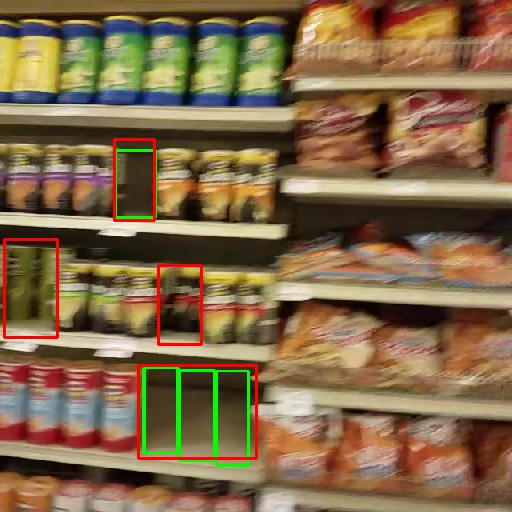
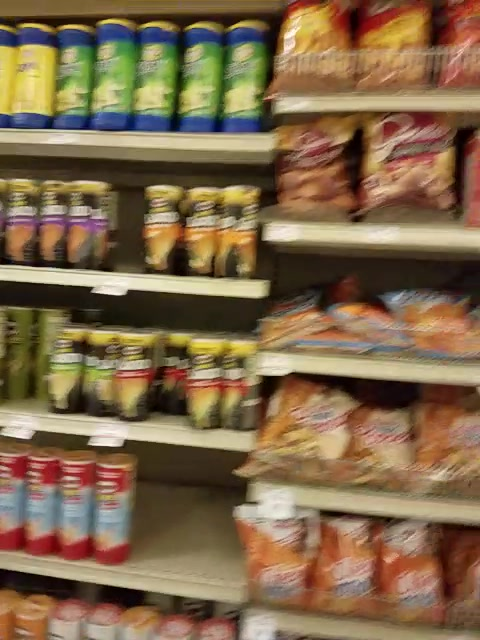
Add more stats to database; draw box evolution

diff --git a/train.py b/train.py
@@ -3,13 +3,18 @@ import argparse
 import os
 import os.path as osp
 import random
+import sqlite3
+from time import time
 
-import torch
-import torch.optim as optim
-import torch.backends.cudnn as cudnn
-import torchvision.transforms as transforms
+from PIL import Image
 from torch.autograd import Variable
 from tqdm import tqdm, trange
+import pandas as pd
+import torch
+import torch.backends.cudnn as cudnn
+import torch.nn.functional as F
+import torch.optim as optim
+import torchvision.transforms as transforms
 
 from torchcv.models.ssd import SSDBoxCoder
 from torchcv.datasets import ListDataset
@@ -19,7 +24,7 @@ from torchcv.transforms import (resize, random_flip, random_paste, random_crop,
 from torchcv.models.void_models import FPNSSD512_2
 from torchcv.loss.void_losses import SSDLoss
 from utils import (set_seed, get_log_prefix, videoid2videoname, git_hash,
-                   get_datetime)
+                   get_datetime, get_gpu_names)
 from utils.sql import get_trial_id, save_stats, connect_and_execute
 from evaluate import evaluate
 
@@ -45,22 +50,29 @@ IMG_SIZE = 512
 DEBUG = False  # Turn off shuffling and multiprocessing
 NUM_WORKERS = 8 if not DEBUG else 0
 SEED = 123
+TRACK_BOX_EVOLUTION = True
 
 IMAGE_DIR = "../../data/voids"
 LABEL_DIR = "../void-detector/labels"
 CKPT_DIR = "checkpoints"
+ARCH = FPNSSD512_2
+ARCH_KWARGS = {'weights_path': 'checkpoints/fpnssd512_20_trained.pth'}
 
 print("Run name:", RUN_NAME)
 set_seed(SEED)
 img_dir = osp.join(IMAGE_DIR, TRN_VIDEO_ID)
 voids = "_voids" if not args.include_voidless else ''
-list_file = osp.join(LABEL_DIR, TRN_VIDEO_ID + voids + '.txt')
-print("Training set:", list_file)
+trn_labels_fpath = osp.join(LABEL_DIR, TRN_VIDEO_ID + voids + '.txt')
+print("Training set:", trn_labels_fpath)
 img_dir_test = osp.join(IMAGE_DIR, VAL_VIDEO_ID)
-list_file_test = osp.join(LABEL_DIR, VAL_VIDEO_ID + voids + '.txt')
-print("Validation set:", list_file_test)
+val_labels_fpath = osp.join(LABEL_DIR, VAL_VIDEO_ID + voids + '.txt')
+print("Validation set:", val_labels_fpath)
 shuffle = not DEBUG
 os.makedirs(CKPT_DIR, exist_ok=True)
+gpu_name = get_gpu_names()[args.gpu]
+trn_name = osp.basename(trn_labels_fpath)
+val_name = osp.basename(val_labels_fpath)
+arch_name = ARCH.__name__
 
 sqlite_path = "database.sqlite3"
 trial_id = get_trial_id(sqlite_path) if not args.test_code else -1
@@ -70,16 +82,17 @@ print("Trial ID:", trial_id)
 with torch.cuda.device(args.gpu):
     # Model
     print('==> Building model..')
-
-    net = FPNSSD512_2(weights_path='checkpoints/fpnssd512_20_trained.pth')
+    net = ARCH(**ARCH_KWARGS)
     net.cuda()
     cudnn.benchmark = True  # WARNING: Don't use if using images w/ diff shapes  # TODO: Check for this condition automatically
     best_loss = float('inf')  # best test loss
     start_epoch = 0  # start from epoch 0 or last epoch
     criterion = SSDLoss()
     lr = 1e-3
-    optimizer = optim.SGD(net.parameters(), lr=lr, momentum=0.9,
-                          weight_decay=1e-4)
+    momentum = 0.9
+    weight_decay = 1e-4
+    optimizer = optim.SGD(net.parameters(), lr=lr, momentum=momentum,
+                          weight_decay=weight_decay)
 
     # Dataset
     print('==> Preparing dataset..')
@@ -110,13 +123,10 @@ with torch.cuda.device(args.gpu):
         boxes, labels = box_coder.encode(boxes, labels)
         return img, boxes, labels
 
-    trn_ds = ListDataset(root=img_dir, list_file=list_file,
-                         transform=trn_transform)
-    val_ds = ListDataset(root=img_dir_test, list_file=list_file_test,
-                         transform=val_transform)
-    if args.test_code:
-        trn_ds.num_imgs = 10
-        val_ds.num_imgs = 10
+    trn_ds = ListDataset(root=img_dir, list_file=trn_labels_fpath,
+                         transform=trn_transform, test_code=args.test_code)
+    val_ds = ListDataset(root=img_dir_test, list_file=val_labels_fpath,
+                         transform=val_transform, test_code=args.test_code)
     trn_dl = torch.utils.data.DataLoader(trn_ds, batch_size=BATCH_SIZE,
                                          shuffle=shuffle,
                                          num_workers=NUM_WORKERS)
@@ -161,10 +171,10 @@ with torch.cuda.device(args.gpu):
                 'epoch': epoch,
                 'state_dict': net.state_dict(),
                 'optim_state_dict': optimizer.state_dict()}
-
-            values = [trial_id, epoch, trn_loss, val_loss, lr, BATCH_SIZE,
+            log_prefix = "trial-{:04d}_".format(trial_id) + log_prefix
+            values = [epoch, trn_loss, val_loss, lr, BATCH_SIZE,
                       IMG_SIZE]
-            layout = "_trial-{:03d}_epoch-{:03d}_trn_loss-{:.6f}"
+            layout = "_epoch-{:03d}_trn_loss-{:.6f}"
             layout += "_val_loss-{:.6f}_lr-{:.2E}_bs-{:03d}_sz-{}_"
             suffix = layout.format(*values) + run_name + '.pth'
             ckpt_path = osp.join(CKPT_DIR, log_prefix + suffix)
@@ -179,39 +189,57 @@ with torch.cuda.device(args.gpu):
                 os.remove(ckpt_path)
         # Save stats to database
         stats = dict(
-            trial_id=trial_id,
-            datetime=get_datetime(),
-            git=git,
-            epoch=epoch,
-            trn_loss=trn_loss,
-            val_loss=val_loss,
-            lr=lr,
-            batch_size=BATCH_SIZE,
-            img_size=IMG_SIZE,
-            seed=SEED)
+            trial_id=trial_id, datetime=get_datetime(), git=git, epoch=epoch,
+            trn_loss=trn_loss, val_loss=val_loss,
+            num_trn=len(trn_ds), num_val=len(val_ds),
+            trn_name=trn_name, val_name=val_name,
+            voidless_included=args.include_voidless,
+            arch=ARCH, loss_fn=criterion.__class__,
+            optimizer=optimizer.__class__,
+            lr=lr, batch_size=BATCH_SIZE, img_size=IMG_SIZE,
+            momentum=momentum, weight_decay=weight_decay, seed=SEED,
+            gpu_name=gpu_name, timestamp=time())
         save_stats(sqlite_path, stats)
-        return val_loss
+        if TRACK_BOX_EVOLUTION:
+            cls_id = 0  # voids
+            img = Image.open("docs/20180215_190227_002190.jpg")
+            x = img.resize((IMG_SIZE, IMG_SIZE))
+            transform = transforms.Compose([
+                transforms.ToTensor(),
+                transforms.Normalize((0.485, 0.456, 0.406),
+                                     (0.229, 0.224, 0.225))])
+            x = transform(x)
+            x = Variable(x, volatile=True).cuda()
+            loc_preds, cls_preds = net(x.unsqueeze(0))
+            boxes, labels, scores = box_coder.decode(
+                loc_preds.data.squeeze().cpu(),
+                F.softmax(cls_preds.squeeze(), dim=1).data.cpu())
+            boxes = [box for i, box in enumerate(boxes) if labels[i] == cls_id]
+            for x1, y1, x2, y2 in boxes:
+                stats['x_min'] = x1
+                stats['y_min'] = y1
+                stats['x_max'] = x2
+                stats['y_max'] = y2
+                stats['timestamp'] = time()
+                save_stats(sqlite_path, stats)
+        return val_loss, stats
+
     log_prefix = get_log_prefix()
     tqdm_epochs = trange(start_epoch, start_epoch+NUM_EPOCHS, desc="Epoch",
                          ncols=0)
     for epoch in tqdm_epochs:
         trn_loss = train(epoch)
-        val_loss = validate(epoch, log_prefix, RUN_NAME, tqdm_epochs, trn_loss)
-    avg_prec = evaluate(net, img_dir, list_file, IMG_SIZE,
+        val_loss, stats = validate(epoch, log_prefix, RUN_NAME, tqdm_epochs,
+                                   trn_loss)
+    avg_prec = evaluate(net, img_dir, trn_labels_fpath, IMG_SIZE,
                         args.test_code)['ap'][0]
-    stats = dict(
-        trial_id=trial_id,
-        datetime=get_datetime(),
-        git=git,
-        epoch=epoch,
-        avg_prec=avg_prec,
-        trn_loss=trn_loss,
-        val_loss=val_loss,
-        lr=lr,
-        batch_size=BATCH_SIZE,
-        img_size=IMG_SIZE,
-        seed=SEED)
+    print("Average precision, class 0:", avg_prec)
+    stats['avg_prec'] = avg_prec
+    stats['timestamp'] = time()
     save_stats(sqlite_path, stats)
-    if args.test_code and False:
+    if args.test_code:
+        cmd = "SELECT * FROM trials WHERE trial_id = -1"
+        conn = sqlite3.connect(sqlite_path)
+        print(pd.read_sql_query(cmd, conn).to_string())
         cmd = "DELETE FROM trials WHERE trial_id = -1"
         connect_and_execute(sqlite_path, cmd)

diff --git a/utils/sql.py b/utils/sql.py
@@ -9,6 +9,15 @@ def connect_and_execute(sqlite_path, cmd, parameters=None):
             cur.execute(cmd)
 
 
+def select(sqlite_path, cmd, parameters=None):
+    conn = sqlite3.connect(sqlite_path)
+    cur = conn.cursor()
+    cur.execute(cmd, parameters) if parameters else cur.execute(cmd)
+    values = cur.fetchall()
+    conn.close()
+    return values
+
+
 def get_placeholders(num, form):
     """
     Example:
@@ -51,7 +60,8 @@ def insert_into_table(sqlite_path, table_name, key_value_pairs):
     # Warning: This cmd is vulnerable to SQL injection via
     # the table_name and col_names variables.
     col_names = key_value_pairs.keys()
-    parameters = list(key_value_pairs.values())
+    parameters = [v.__name__ if callable(v) or isinstance(v, type) else v
+                  for v in key_value_pairs.values()]
     col_name_placeholders = get_placeholders(len(key_value_pairs), "{}")
     col_name_placeholders = "({})".format(col_name_placeholders)
     parameter_placeholders = get_placeholders(len(key_value_pairs), "?")
@@ -85,11 +95,27 @@ def save_stats(sqlite_path, stats):
                   avg_prec REAL,
                   trn_loss REAL,
                   val_loss REAL,
+                  num_trn INTEGER,
+                  num_val INTEGER,
+                  trn_name TEXT,
+                  val_name TEXT,
+                  voidless_included INTEGER,
                   lr REAL,
+                  momentum REAL,
+                  weight_decay REAL,
                   batch_size INTEGER,
                   img_size INTEGER,
                   seed INTEGER,
-                  PRIMARY KEY (trial_id, datetime))
+                  arch TEXT,
+                  loss_fn TEXT,
+                  optimizer TEXT,
+                  gpu_name TEXT,
+                  x_min REAL,
+                  y_min REAL,
+                  x_max REAL,
+                  y_max REAL,
+                  timestamp REAL,
+                  PRIMARY KEY (trial_id, timestamp))
               """
         connect_and_execute(sqlite_path, cmd)
     except sqlite3.OperationalError:
@@ -105,12 +131,9 @@ if __name__ == '__main__':
     args = parser.parse_args()
     sqlite_path = "database.sqlite3"
     if args.alter:
-        cmd = "ALTER TABLE trials ADD seed INTEGER"
+        cmd = "ALTER TABLE trials ADD timestamp REAL"
+        print(cmd)
         connect_and_execute(sqlite_path, cmd)
     else:
-        stats = dict(
-            trial_id=-1,
-            datetime=-1,
-            git=-1,
-            epoch=-1)
-        save_stats(sqlite_path, stats)
+        cmd = "DELETE FROM trials WHERE trial_id = -1"
+        connect_and_execute(sqlite_path, cmd)

diff --git a/utils/draw_box_evolution.py b/utils/draw_box_evolution.py
@@ -1,0 +1,41 @@
+import os
+import os.path as osp
+
+from PIL import Image
+import cv2
+import numpy as np
+
+from utils.sql import select
+
+
+def draw_box_evolution(img, sqlite_path, trial_id, model_img_size):
+    out_dir = "outputs/trial-{:04d}".format(trial_id)
+    os.makedirs(out_dir, exist_ok=True)
+    img = cv2.cvtColor(np.array(img), cv2.COLOR_RGB2BGR)
+    h0, w0 = img.shape[:2]
+    h1, w1 = (model_img_size, model_img_size)
+    x_trans = w0/w1
+    y_trans = h0/h1
+    cmd = """SELECT epoch, x_min, y_min, x_max, y_max FROM trials
+             WHERE trial_id = ? AND x_min IS NOT NULL"""
+    parameters = [trial_id]
+    values = select(sqlite_path, cmd, parameters)
+    epochs = [v[0] for v in values]
+    for epoch in epochs:
+        img_copy = img.copy()
+        boxes = [v[1:] for v in values if v[0] == epoch]
+        for x1, y1, x2, y2 in boxes:
+            x1 = np.int64(np.round(x1 * x_trans))
+            x2 = np.int64(np.round(x2 * x_trans))
+            y1 = np.int64(np.round(y1 * y_trans))
+            y2 = np.int64(np.round(y2 * y_trans))
+            cv2.rectangle(img_copy, (x1, y1), (x2, y2), (0, 0, 255), 2)
+        fpath = osp.join(out_dir, "epoch-{:03d}.jpg".format(epoch))
+        cv2.imwrite(fpath, img_copy)
+
+
+img = Image.open("docs/20180215_190227_002190.jpg")
+sqlite_path = "database.sqlite3"
+trial_id = 1
+model_img_size = 512
+draw_box_evolution(img, sqlite_path, trial_id, model_img_size)

diff --git a/torchcv/datasets/listdataset.py b/torchcv/datasets/listdataset.py
@@ -18,7 +18,7 @@ class ListDataset(data.Dataset):
       a.jpg xmin ymin xmax ymax label xmin ymin xmax ymax label ...
     PASCAL VOC annotations use (1, 1) as the top-left corner, not (0, 0).
     '''
-    def __init__(self, root, list_file, transform=None):
+    def __init__(self, root, list_file, transform=None, test_code=False):
         '''
         Args:
           root: (str) ditectory to images.
@@ -41,6 +41,8 @@ class ListDataset(data.Dataset):
 
         with open(list_file) as f:
             lines = f.readlines()
+            if test_code:
+                lines = lines[:10]
             self.num_imgs = len(lines)
 
         for line in lines:

diff --git a/utils/utils.py b/utils/utils.py
@@ -7,6 +7,14 @@ def videoid2videoname(i):
 # -----------------------------------------------------------------------------
 
 
+def get_gpu_names():
+    import subprocess
+    cmd = "nvidia-smi --query-gpu=gpu_name --format=csv"
+    gpu_names = subprocess.check_output(cmd, shell=True).splitlines()[1:]
+    gpu_names = list(map(lambda x: x.decode("utf-8"), gpu_names))
+    return gpu_names
+
+
 def git_hash():
     import shlex
     import subprocess

diff --git a/evaluate.py b/evaluate.py
@@ -59,7 +59,6 @@ def evaluate(net, img_dir, list_file, img_size, test_code):
 
     ap_map_dict = voc_eval(pred_boxes, pred_labels, pred_scores, gt_boxes,
                            gt_labels, iou_thresh=0.5, use_07_metric=True)
-    print(ap_map_dict)
     return ap_map_dict
 
 

diff --git a/README.md b/README.md
@@ -236,16 +236,17 @@ Requirements:
 - [ ] Store the following:
     - [x] Training configuration information
     - [ ] Final results
-    - [ ] Epoch-by-epoch results
+    - [x] Epoch-by-epoch results
     - Bonus:
         - [ ] The evolution of void boxes on one or two images
         - [ ] The evolution of non-void boxes on one or two images
 
 ## 2018-02-24: Log results in a database (part 3)
-- [ ] Store the following:
+- [x] Store the following:
     - [x] Final results
-    - [ ] Epoch-by-epoch results
-
+    - [x] num_trn, num_val, trn_name, val_name, gpu_name, arch, loss_fn, optimizer, momentum, weight_decay, voidless_included
+    - [x] x_min, y_min, x_max, y_max for a pre-selected image
+- [x] Draw the evolution of the predictions on a pre-selection image: draw_box_evolution.py
 # Ambitions
 
 Real-time processing on embedded device:
